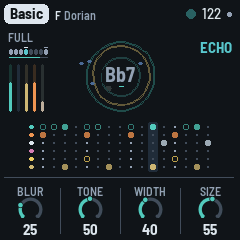
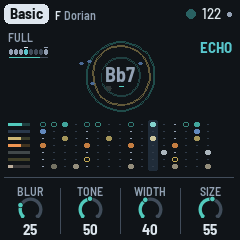
1.4.0 docs: the manual's screen section (the seven rows and their meters, the voice pages' meter block, the strips and the colour dots gone), its screenshots; PLAN (built)

diff --git a/docs/MANUAL.md b/docs/MANUAL.md
@@ -314,7 +314,7 @@ GLO held on, RESET (red); SEL held, LOCK. Evolve's own nudges show no card.
 
 ## 4. The screen
 
-![The main screen on the Form page: Basic, F Dorian, tempo 122; FULL and the phrase's eight bar cells top left, bars 4 and 8 ticked, the line to the next chord under them, the five thin level strips under it; FORM top right; the ripples with the chord's name in the middle, the six lanes below; FILTER Off, EVOLVE 55, MOTION 30 (its ring marked at 40 and 70), DRIFT 64 bars](img/screen-main.png "The Form page (HOME)")
+![The main screen on the Form page: Basic, F Dorian, tempo 122; FULL and the phrase's eight bar cells top left, bars 4 and 8 ticked, the line to the next chord under them; FORM top right; the ripples with the chord's name in the middle, the seven lanes below, each with its level meter at the left; FILTER Off, EVOLVE 55, MOTION 30 (its ring marked at 40 and 70), DRIFT 64 bars](img/screen-main.png "The Form page (HOME)")
 ![A Groove phrase: GROOVE lit top left, fewer stabs in the top lane; MOTION 80](img/screen-groove.png "A Groove")
 
 - **Top line:** the piece in a tag, its root and mode. On the right, a beat light (a play triangle
@@ -330,9 +330,6 @@ GLO held on, RESET (red); SEL held, LOCK. Evolve's own nudges show no card.
   brighter, ahead and played; under Lock all eight are alike. On the phrase's last bar, cell 8 blinks
   when the next phrase brings a change: a new plan, another kick shape or another section. Under the
   cells, a thin line fills up on the way to the next chord (none when Drift is Hold, or in dub hold).
-- **At the left, under them:** five thin strips, the levels of the chord (teal), the pings (blue),
-  the bass (brass), the drums (amber) and the noise (grey), as the Arrangement page's meters measure
-  them (−48 to 0 dB): a glance at the mix. A muted part's strip is dark; soloed out, dimmed.
 - **Top right:** the page's name, in teal (ARRANGEMENT on SEL's page). SOLO, in yellow, to its left
   while a solo is on. Above it, in red: "hold" in dub hold, "lock" under Lock.
 - **The ripples:** each stab drops a ring in the middle that spreads and fades. Its outline is the
@@ -358,8 +355,8 @@ GLO held on, RESET (red); SEL held, LOCK. Evolve's own nudges show no card.
   scope or the spectrum showing, the chord's name moves to the top.
 - On a layer's own page (Chord, Pings, Bass, Drums) and its sound page, the middle shows **that layer alone**: the ripples its notes, in
   its colour (the stabs on the Chord page, the pings with their loops' dots on the Pings page, a ring a bass note, a
-  ring a drum hit), and the scope or the spectrum its sound, dry. The lanes below keep showing the whole bar, the
-  layer's own in colour and the others in grey (the pings and the noise have no lane: all grey). The Noise pages
+  ring a drum hit), and the scope or the spectrum its sound, dry. Below it, that layer's own lane, large (below), with the
+  seven meters at its left, the layer's own bright and the others dimmed. The Noise pages
   follow it too, with the noise alone: its specks, or its scope or spectrum. Form, Dub, Echo and the other pages show the whole piece (the Arrangement page shows its meters).
   - The **scope** draws the output (left and right mixed) as a thick line. Each trace starts on a
     rising zero crossing so the picture stands still, and the two traces before it fade behind.
@@ -369,13 +366,25 @@ GLO held on, RESET (red); SEL held, LOCK. Evolve's own nudges show no card.
     top. The columns jump up with the sound and fall back slowly. A white cap stays at each
     column's peak for a moment before it drops.
 - The levels in full and the duck are on the Arrangement page (SEL), on its meters; the other pages
-  show the five thin strips at the left (since 1.4.0; the duck meter is the Arrangement page's).
-- **The lanes:** the bar as it plays, sixteen steps, a lane a layer, each marked in its colour on
-  the left: the stabs (teal), the kick (amber), the hats (white), the rim (pink), the clap (yellow), the bass (brass).
-  A hit that only sometimes comes (the clap in Auto, a lane's Chance under 50%) is a ring, filled when it plays. The step playing
-  is lit. A layer that's out (in a Break, muted on the Arrangement page, or at level 0) has an empty lane at once.
-  In the stabs' lane, rings show where the echo's repeats land, fainter for each, as the echo's
-  time and Feedback have them; each flashes white as the playhead reaches it.
+  show a short meter at each lane's left (since 1.4.0; the duck meter is the Arrangement page's).
+- **The lanes** (Form, Dub, Echo, Setup, Key): the bar as it plays, sixteen steps, seven rows, top to
+  bottom: **CHD** the stabs (teal), **PNG** the pings (blue: the sixteenths a loop's note falls on
+  this bar, those played and those to come), **BAS** the bass (brass), **KCK** the kick (amber),
+  **HAT** the hats (white: the shaker and the open hat), **R/C** the rim (pink) and the clap
+  (yellow), side by side when both hit one step, and **NOI** the noise's hits this bar (grey, a
+  ghost dimmer). A hit that only sometimes comes (the clap in Auto, a lane's Chance under 50%) is a
+  ring, filled when it plays. The step playing is lit. A layer that's out (in a Break, muted on the
+  Arrangement page, or at level 0) has an empty row at once. In the stabs' row, rings show where the
+  echo's repeats land, fainter for each, as the echo's time and Feedback have them; each flashes white
+  as the playhead reaches it.
+- **The meters:** at each row's left, a short level meter in the row's colour, over a dim track:
+  the chord, the pings, the bass and the noise as the Arrangement page's meters measure them (−48 to
+  0 dB), the kick, the hats and the rim and clap from their own hits, jumping up with each and
+  falling back (the R/C meter yellow when the clap was the last). A glance at the mix. A muted part's
+  meter is dark; soloed out, dimmed (the kick and the hats each their own: the rim and clap follow the
+  hats). On a layer's pages and the Noise pages the same meters stand in the same place, without the
+  notes, the page's own bright (the Drums pages: KCK, HAT and R/C) and the others dimmed; its large
+  lane to their right.
 - **Bottom:** a rule (on a layer's page, the voice's name at its left: the Noise page's character,
   the Chords page's walk), then the page's four values, one for each knob: a dial (or, for a
   switch, its positions as dots) and the value. The one you're turning lights up, and while it

diff --git a/PLAN.md b/PLAN.md
@@ -733,6 +733,17 @@ The UI plan (build/design/UI-REVIEW.md; the user: "I agree with the plan"), and 
     user: "both, let's see how it works in place"): five thin strips at the left (the meters', the noise too), and
     the phrase's bars as cells under the section (the one playing teal, the B bars ticked). Built; the song line to
     come with song structure.
+  - **The lanes, seven rows, their meters at the left** (the user's design, 2026-10-24; branch dub-1.4-lanes): the
+    overview's lanes (Form, Dub, Echo, Setup, Key) seven rows of 7 px, CHD the stabs, PNG the pings (new: the
+    sixteenths a loop's note falls on this bar, those rung kept, those ahead from where each loop will be; the
+    engine's en_lane_png), BAS, KCK, HAT (shaker and open hat), R/C (the rim pink, the clap yellow, side by side when
+    both hit a step), NOI (new: the noise's hits this bar, en_nz_pat's half, a ghost dimmer). In place of the colour
+    dots, a 22 px level meter a row, in its colour over a dim track: CHD, PNG, BAS, NOI the meters' (-48..0 dB, the
+    Arrangement page's ballistics), KCK, HAT, R/C from their hits (en_drum_glow, 48 dB a second down; R/C yellow when
+    the clap hit last); a mute dark, soloed out dimmed (KCK by the kick's mute, HAT and R/C the hats'). The voice
+    pages: the same block in the same place, no notes, the page's row(s) bright (Drums: KCK, HAT, R/C), the others
+    dimmed; no tags (FONT_XS's capitals taller than a row: the colours the cue); their lanes and A/B (1/2) moved right
+    (the grid at x 50). The thin strips gone. The main screen's hash: the meters' lit lengths (as the strips' were).
   - **Step 1 built** (branch dub-1.4-arr, 2026-10-24): the names (Form, Dub, Arrangement; the identifiers V_DUB,
     V_SPACE, V_PERF kept), the knobs (Energy, Mixer grey, Wet, Duck), the meters (24 segments of 2 dB, -48..0; the
     peak held 1 s; the level's notch; mute dark, soloed out dimmed; GR under the master: the bass's duck while it
